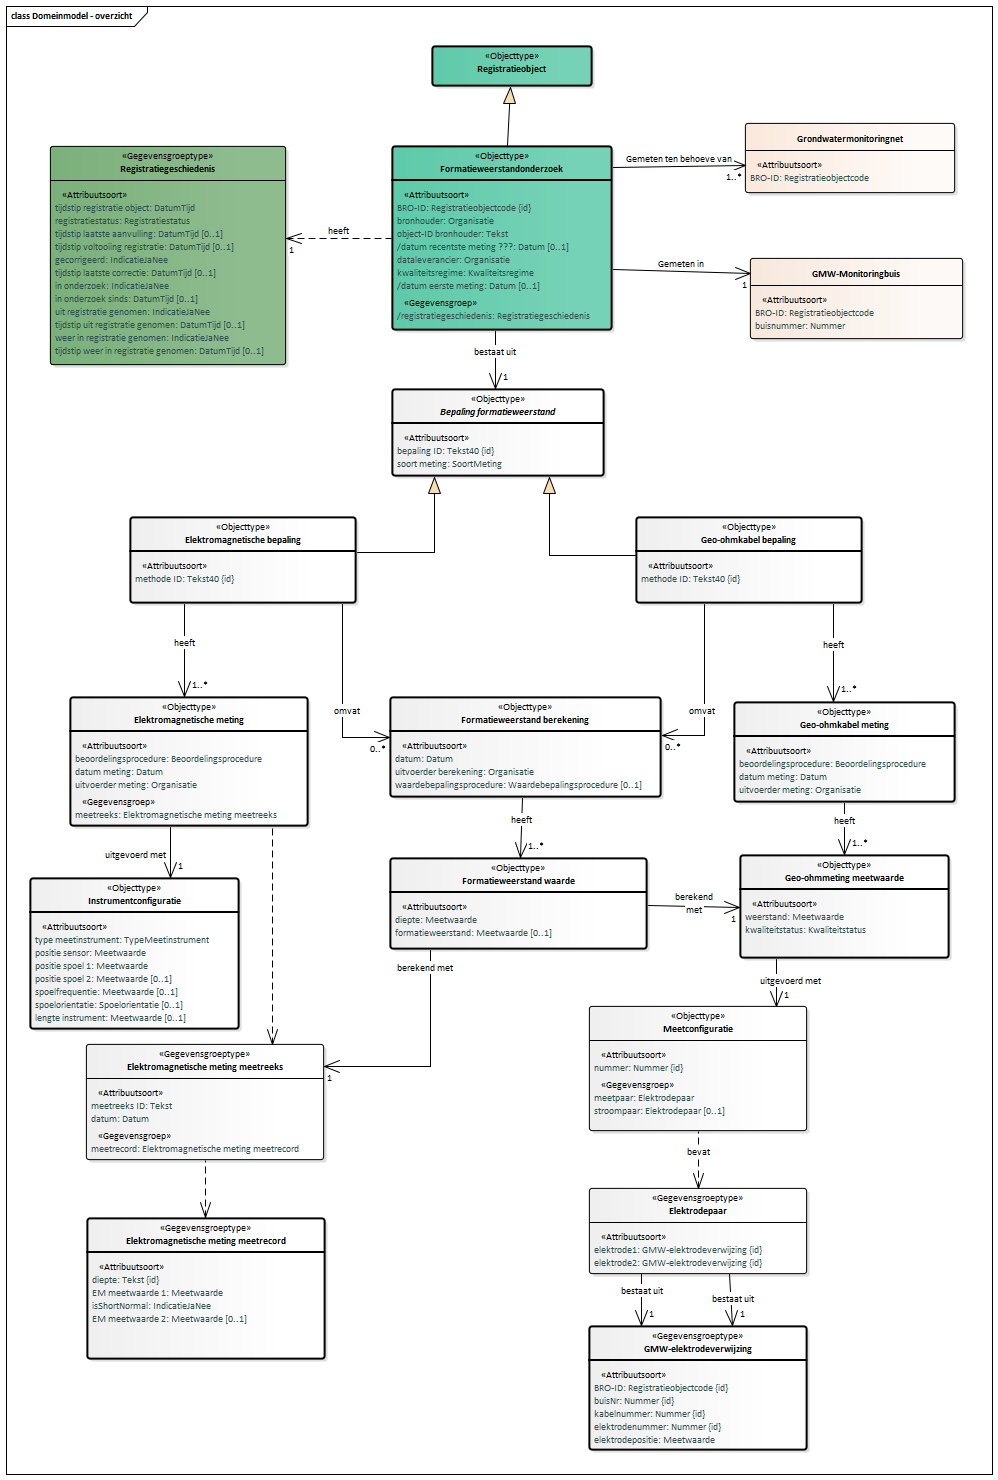
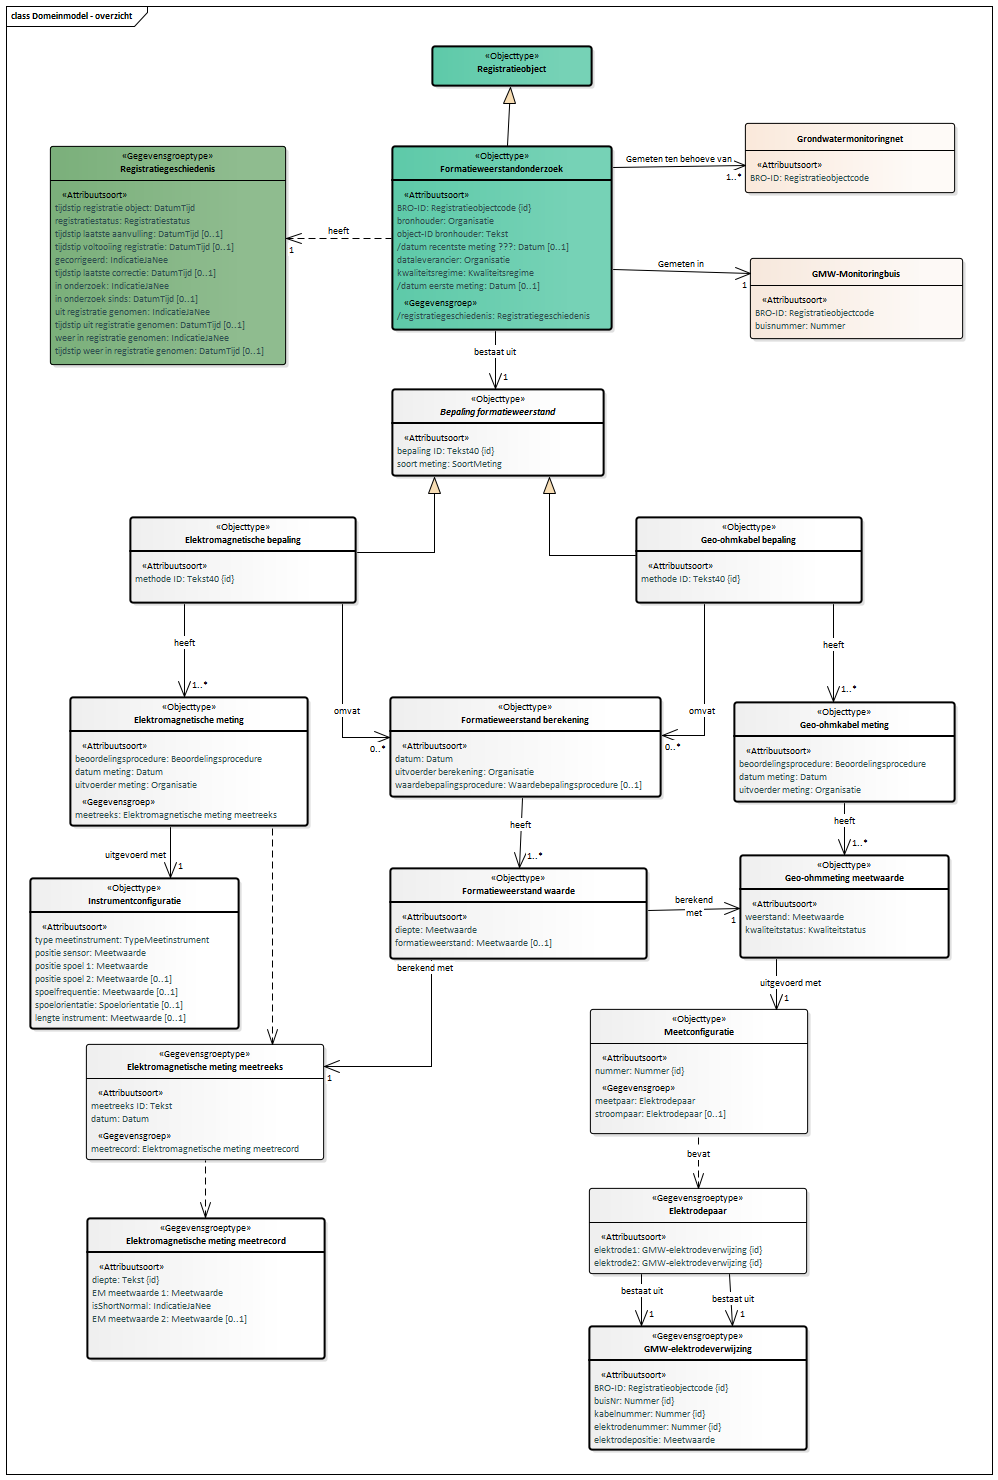
Conceptualmodel-FormatieweerstandonderzoekFRDconceptueel-0.1-1-20200401-20200903-090010

diff --git a/data/FRD-cat.msword.html b/data/FRD-cat.msword.html
@@ -15,7 +15,7 @@
    <body>
       <p>Conceptual model/Formatieweerstand onderzoek (FRD) conceptueel/20200401</p>
       <p>Imvertor: 1.61.2</p>
-      <p>Model release: Conceptualmodel-FormatieweerstandonderzoekFRDconceptueel-0.1-1-20200401-20200828-095438</p>
+      <p>Model release: Conceptualmodel-FormatieweerstandonderzoekFRDconceptueel-0.1-1-20200401-20200903-090010</p>
       <hr>
       <section>
          <h1>Artikel 1 Definitie van registratieobject, entiteiten en attributen</h1>
@@ -60,7 +60,7 @@
          <section>
             <h2>Het domeinmodel</h2>
             <section id="">
-               <div class="imageinfo overview"><img src="Images/EAID_0B3602DB_544E_4f6f_A6E2_DDE4A8A6790E.png" usemap="#imagemap-EAID_0B3602DB_544E_4f6f_A6E2_DDE4A8A6790E" alt="Diagram "><map name="imagemap-EAID_0B3602DB_544E_4f6f_A6E2_DDE4A8A6790E"><area shape="rect" alt="Formatieweerstand waarde" coords="390,858,647,949" href="#graph_EAID_1C615D07_2360_4c93_8371_F9173FA1C85B"><area shape="rect" alt="Formatieweerstand berekening" coords="390,697,661,797" href="#graph_EAID_6F6C1FC0_77AE_4d31_8862_B7B443C2D0C8"><area shape="rect" alt="Elektromagnetische meting" coords="70,697,308,826" href="#graph_EAID_CA2EEC38_0161_4d1b_968C_E63B2F5C1547"><area shape="rect" alt="Elektrodepaar" coords="589,1188,807,1274" href="#graph_EAID_F78E7F84_132E_4390_A72A_D32759DEBED4"><area shape="rect" alt="Geo-ohmkabel meting" coords="734,702,955,802" href="#graph_EAID_DB9DF92C_83D8_4d54_8B6A_6693052EF4B1"><area shape="rect" alt="Elektromagnetische meting meetreeks" coords="86,1044,324,1160" href="#graph_EAID_33450642_9C84_4c07_AFE3_FB734FBA8DBB"><area shape="rect" alt="Geo-ohmmeting meetwaarde" coords="740,855,949,958" href="#graph_EAID_0E73504D_4081_4ea3_A7AA_1FB27FBC227B"><area shape="rect" alt="Instrumentconfiguratie" coords="30,878,239,1029" href="#graph_EAID_C4102470_4315_4bda_9B2A_59EDEA9E2834"><area shape="rect" alt="Meetconfiguratie" coords="589,1006,807,1131" href="#graph_EAID_04636D26_BFC4_4838_AC91_21BB2BF62212"><area shape="rect" alt="Elektromagnetische meting meetrecord" coords="87,1218,325,1359" href="#graph_EAID_17DB4860_7353_467e_89CD_5018D22D8A43"><area shape="rect" alt="Elektromagnetische bepaling" coords="130,517,356,603" href="#graph_EAID_A1A80DF7_7D38_4063_8DE9_80EDAAF846B4"><area shape="rect" alt="Geo-ohmkabel bepaling" coords="636,517,862,603" href="#graph_EAID_16AE0361_B385_4410_A632_F5CDCEEC8FD1"><area shape="rect" alt="GMW-elektrodeverwijzing" coords="589,1326,807,1450" href="#graph_EAID_EFFFB8A0_3810_43f9_83F1_FC48EFD1FE4E"><area shape="rect" alt="Bepaling formatieweerstand" coords="392,389,604,476" href="#graph_EAID_D3B48B39_96CC_4f01_91F1_BDF0B725CD8A"><area shape="rect" alt="Registratiegeschiedenis" coords="50,146,286,365" href="#graph_EAID_0451B041_6862_420f_9E12_9829516BAF81"><area shape="rect" alt="Formatieweerstandonderzoek" coords="392,146,612,330" href="#graph_EAID_F03C2FC8_5705_46dc_927D_01B7EC61C2F2"><area shape="rect" alt="Registratieobject" coords="432,46,592,86" href="#graph_EAID_5706F7F6_075B_46d6_A47D_7DCF1EEB21B7"></map><p><b>Domeinmodel</b></p>
+               <div class="imageinfo overview"><img src="Images/EAID_0B3602DB_544E_4f6f_A6E2_DDE4A8A6790E.png" usemap="#imagemap-EAID_0B3602DB_544E_4f6f_A6E2_DDE4A8A6790E" alt="Diagram "><map name="imagemap-EAID_0B3602DB_544E_4f6f_A6E2_DDE4A8A6790E"><area shape="rect" alt="Formatieweerstand waarde" coords="390,868,647,959" href="#graph_EAID_1C615D07_2360_4c93_8371_F9173FA1C85B"><area shape="rect" alt="Formatieweerstand berekening" coords="390,697,661,797" href="#graph_EAID_6F6C1FC0_77AE_4d31_8862_B7B443C2D0C8"><area shape="rect" alt="Elektromagnetische meting" coords="70,697,308,826" href="#graph_EAID_CA2EEC38_0161_4d1b_968C_E63B2F5C1547"><area shape="rect" alt="Elektrodepaar" coords="589,1188,807,1274" href="#graph_EAID_F78E7F84_132E_4390_A72A_D32759DEBED4"><area shape="rect" alt="Geo-ohmkabel meting" coords="734,702,955,802" href="#graph_EAID_DB9DF92C_83D8_4d54_8B6A_6693052EF4B1"><area shape="rect" alt="Elektromagnetische meting meetreeks" coords="86,1044,324,1160" href="#graph_EAID_33450642_9C84_4c07_AFE3_FB734FBA8DBB"><area shape="rect" alt="Geo-ohmmeting meetwaarde" coords="740,855,949,958" href="#graph_EAID_0E73504D_4081_4ea3_A7AA_1FB27FBC227B"><area shape="rect" alt="Instrumentconfiguratie" coords="30,878,239,1029" href="#graph_EAID_C4102470_4315_4bda_9B2A_59EDEA9E2834"><area shape="rect" alt="Meetconfiguratie" coords="590,1009,808,1134" href="#graph_EAID_04636D26_BFC4_4838_AC91_21BB2BF62212"><area shape="rect" alt="Elektromagnetische meting meetrecord" coords="87,1218,325,1359" href="#graph_EAID_17DB4860_7353_467e_89CD_5018D22D8A43"><area shape="rect" alt="Elektromagnetische bepaling" coords="130,517,356,603" href="#graph_EAID_A1A80DF7_7D38_4063_8DE9_80EDAAF846B4"><area shape="rect" alt="Geo-ohmkabel bepaling" coords="636,517,862,603" href="#graph_EAID_16AE0361_B385_4410_A632_F5CDCEEC8FD1"><area shape="rect" alt="GMW-elektrodeverwijzing" coords="589,1326,807,1450" href="#graph_EAID_EFFFB8A0_3810_43f9_83F1_FC48EFD1FE4E"><area shape="rect" alt="Bepaling formatieweerstand" coords="392,389,604,476" href="#graph_EAID_D3B48B39_96CC_4f01_91F1_BDF0B725CD8A"><area shape="rect" alt="Registratiegeschiedenis" coords="50,146,286,365" href="#graph_EAID_0451B041_6862_420f_9E12_9829516BAF81"><area shape="rect" alt="Formatieweerstandonderzoek" coords="392,146,612,330" href="#graph_EAID_F03C2FC8_5705_46dc_927D_01B7EC61C2F2"><area shape="rect" alt="Registratieobject" coords="432,46,592,86" href="#graph_EAID_5706F7F6_075B_46d6_A47D_7DCF1EEB21B7"></map><p><b>Domeinmodel</b></p>
                </div>
                <div class="imageinfo "><img src="Images/EAID_2604C095_2787_4983_A398_736373FA24AB.png" usemap="#imagemap-EAID_2604C095_2787_4983_A398_736373FA24AB" alt="Diagram "><map name="imagemap-EAID_2604C095_2787_4983_A398_736373FA24AB"><area shape="rect" alt="Elektrodepaar" coords="35,155,253,217" href="#graph_EAID_F78E7F84_132E_4390_A72A_D32759DEBED4"><area shape="rect" alt="Meetconfiguratie" coords="35,46,253,121" href="#graph_EAID_04636D26_BFC4_4838_AC91_21BB2BF62212"><area shape="rect" alt="GMW-elektrodeverwijzing" coords="35,293,253,394" href="#graph_EAID_EFFFB8A0_3810_43f9_83F1_FC48EFD1FE4E"></map><p><b></b></p>
                </div>
